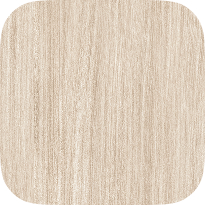
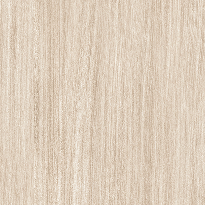
changed media query from (1025px-1300px) to (1025px-1280px)

diff --git a/style.css b/style.css
@@ -1334,7 +1334,7 @@ footer .second-line a:hover::after {
     }
 }
 
-@media (min-width: 1025px) and (max-width: 1300px) {
+@media (min-width: 1025px) and (max-width: 1280px) {
     #page-404 {
         min-height: 100vh;
         background-position: center;
